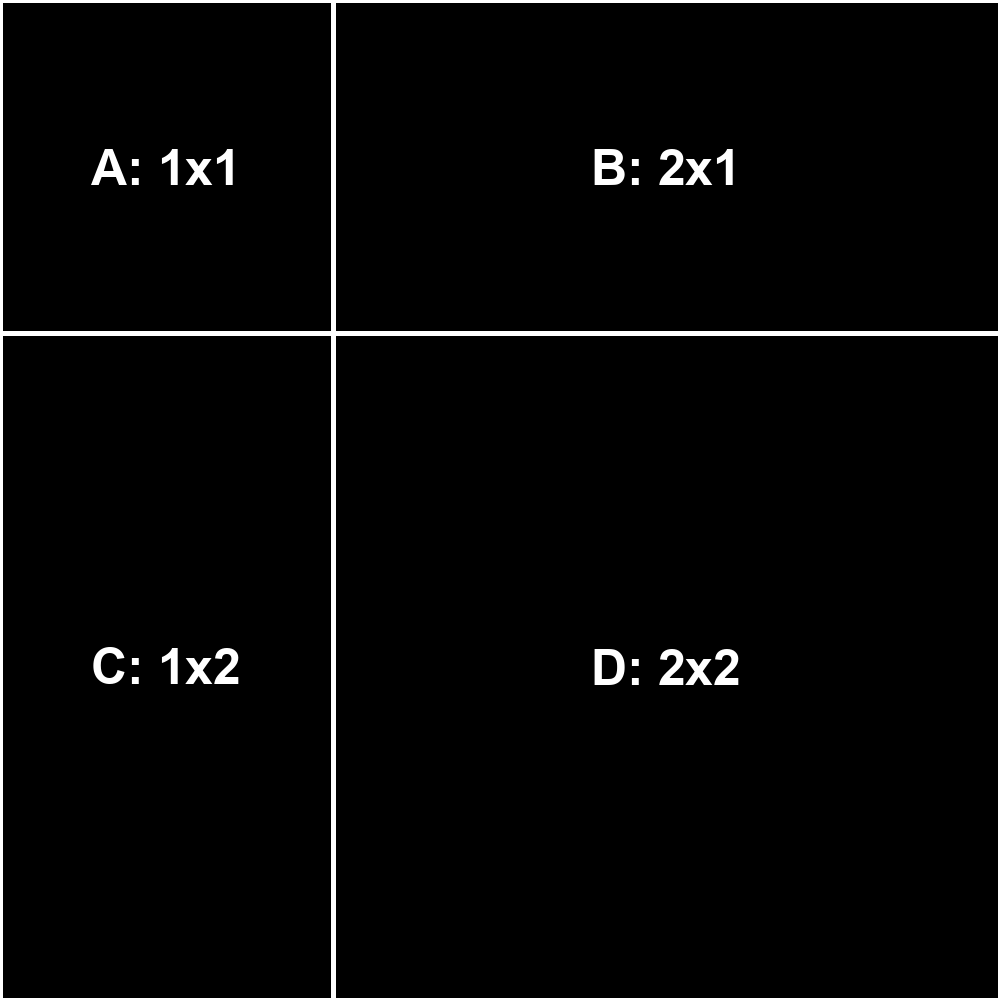
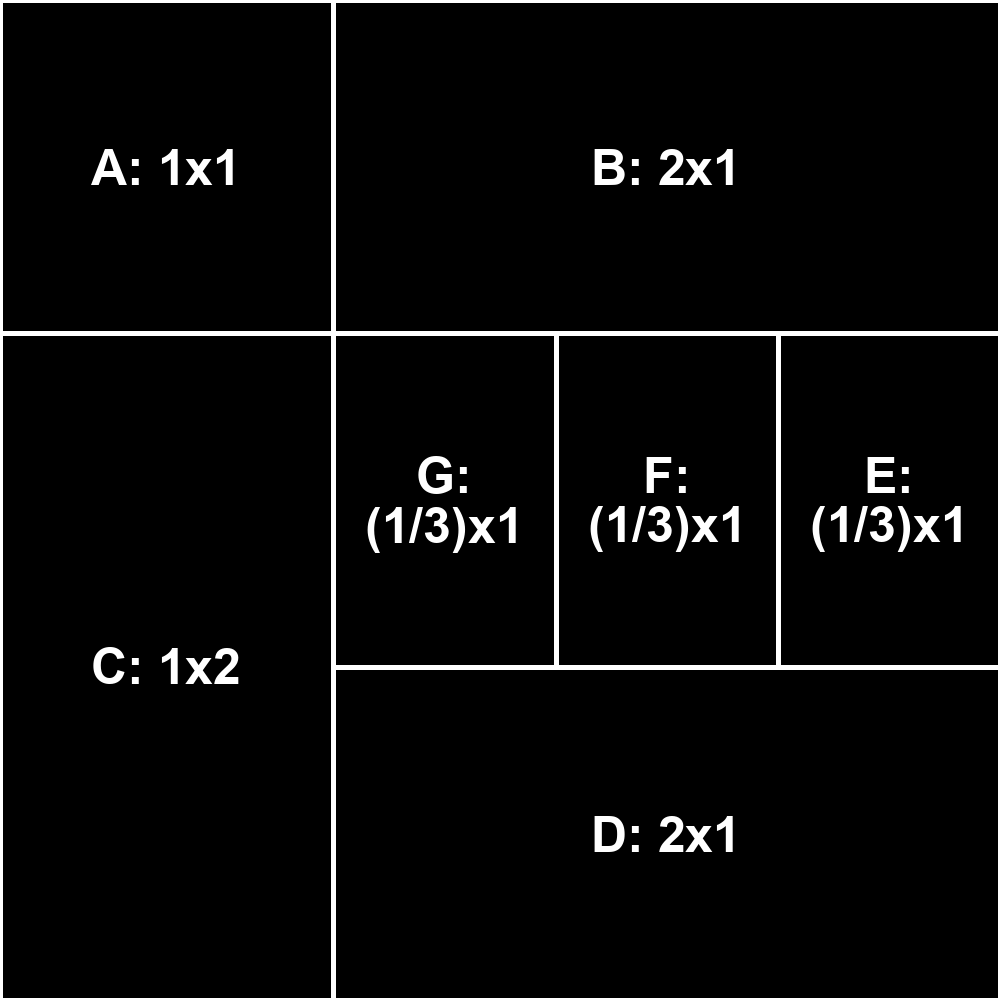
dude...

Changed region(s): [[0.341, 0.341, 1.0, 0.682], [0.589, 0.434, 0.744, 0.558], [0.589, 0.806, 0.744, 0.868]]

diff --git a/imagesmacker/fields.py b/imagesmacker/fields.py
@@ -1,71 +1,89 @@
+from collections import deque
+
 from imagesmacker.models.coordinates import XYXY, RectangleCoordinates
 from imagesmacker.models.fields import (
     FieldsCoords,
+    RelativeContainer,
     RelativeDataFieldFormat,
+    RelativeFieldCell,
+    cells_type,
 )
 
 
-def relative_field_formatting(
-    data_field_format: RelativeDataFieldFormat,
+def relative_field_formatting(  # noqa: C901
+    data_field_format: RelativeContainer | RelativeDataFieldFormat,
     dimensions: RectangleCoordinates,
 ) -> FieldsCoords:
     """
-    _summary_.
+    Non-recursive version of relative layout formatter using a manual stack.
 
     Args:
-        data_field_format (RelativeDataFieldFormat): _description_
-        dimensions (Coordinates): Coordinate mode agnostic dimensions.
+        data_field_format (RelativeDataFieldFormat): Layout tree.
+        dimensions (RectangleCoordinates): Bounding box to render in.
 
     Returns:
-        dict[str, tuple[float, float, float, float]]: _description_
+        FieldsCoords: Dict of field names to XYXY positions.
     """
+    output: FieldsCoords = {}
 
-    initial_field_x, field_y, field_width, field_height = dimensions.xywh()
+    x, y, w, h = dimensions.xywh()
 
-    total_field_fractional_height: float = 0
-    ls_cell_fractional_widths: list[float] = []
+    # Stack of layout jobs
+    # Each job is: (cells, x, y, w, h, direction)
+    stack: deque[
+        tuple[RelativeContainer | RelativeDataFieldFormat, float, float, float, float]
+    ] = deque()
+    stack.append((data_field_format, x, y, w, h))  # root layout
 
-    for row in data_field_format.rows:
-        total_row_fractional_width: float = 0
+    container: RelativeContainer | RelativeDataFieldFormat
+    cells: cells_type
 
-        row_fractional_height = row.fr
-        row_cells = row.cells
+    while stack:
+        container, cur_x, cur_y, cur_w, cur_h = stack.pop()
+        cells = container.cells
+        direction = container.direction
 
-        total_field_fractional_height += row_fractional_height
+        total_fr = sum(cell.fr for cell in cells)
+        horizontal = direction in ("lr", "rl")
+        reverse = direction in ("rl", "bt")
 
-        for cell in row_cells:
-            total_row_fractional_width += cell.fr
+        offset = cur_x if horizontal else cur_y
+        cells_iter = reversed(cells) if reverse else cells
 
-        ls_cell_fractional_widths.append(total_row_fractional_width)
+        for cell in cells_iter:
+            frac = cell.fr / total_fr
+            size = cur_w * frac if horizontal else cur_h * frac
 
-    output: dict[str, XYXY] = {}
+            if horizontal:
+                cell_x = offset
+                cell_y = cur_y
+                cell_w = size
+                cell_h = cur_h
+            else:
+                cell_x = cur_x
+                cell_y = offset
+                cell_w = cur_w
+                cell_h = size
 
-    for row, total_row_fractional_width in zip(
-        data_field_format.rows,
-        ls_cell_fractional_widths,
-        strict=True,
-    ):
-        row_fractional_height = row.fr
-        row_cells = row.cells
+            if isinstance(cell, RelativeFieldCell):
+                output[cell.name] = XYXY(
+                    round(cell_x),
+                    round(cell_y),
+                    round(cell_x + cell_w),
+                    round(cell_y + cell_h),
+                )
+            elif isinstance(cell, RelativeContainer):
+                # Push nested job onto stack
+                stack.append(
+                    (
+                        cell,
+                        cell_x,
+                        cell_y,
+                        cell_w,
+                        cell_h,
+                    ),
+                )
 
-        row_height = round(
-            field_height * (row_fractional_height / total_field_fractional_height),
-        )
-
-        field_x = initial_field_x
-
-        for cell in row_cells:
-            cell_fractional_width = cell.fr
-            cell_width = round(
-                field_width * (cell_fractional_width / total_row_fractional_width),
-            )
-            output[cell.name] = XYXY(
-                field_x,
-                field_y,
-                field_x + cell_width,
-                field_y + row_height,
-            )
-            field_x += cell_width
-        field_y += row_height
+            offset += size
 
     return output

diff --git a/examples/08_fields.py b/examples/08_fields.py
@@ -10,9 +10,9 @@ from imagesmacker.models.draw import TextConfig, TextStyle
 from imagesmacker.models.fields import (
     FieldsConfig,
     FieldsCoords,
+    RelativeContainer,
     RelativeDataFieldFormat,
     RelativeFieldCell,
-    RelativeRow,
     TextFieldAttributes,
 )
 
@@ -61,24 +61,50 @@ fields_text = {
     "A": "A: 1x1",
     "B": "B: 2x1",
     "C": "C: 1x2",
-    "D": "D: 2x2",
+    "D": "D: 2x1",
+    "E": "E: \n(1/3)x1",
+    "F": "F: \n(1/3)x1",
+    "G": "G: \n(1/3)x1",
 }
 
 data_field_fmt = RelativeDataFieldFormat(
-    rows=[
-        RelativeRow(
+    cells=[
+        RelativeContainer(
             fr=1,
             cells=[
                 RelativeFieldCell(fr=1, name="A"),
                 RelativeFieldCell(fr=2, name="B"),
             ],
+            direction="lr",
         ),
-        RelativeRow(
+        RelativeContainer(
             fr=2,
             cells=[
                 RelativeFieldCell(fr=1, name="C"),
-                RelativeFieldCell(fr=2, name="D"),
+                RelativeContainer(
+                    fr=2,
+                    cells=[
+                        RelativeFieldCell(fr=1, name="D"),
+                        RelativeContainer(
+                            fr=1,
+                            cells=[
+                                RelativeFieldCell(fr=1, name="E"),
+                                RelativeContainer(
+                                    fr=2,
+                                    cells=[
+                                        RelativeFieldCell(fr=1, name="F"),
+                                        RelativeFieldCell(fr=1, name="G"),
+                                    ],
+                                    direction="rl",
+                                ),
+                            ],
+                            direction="rl",
+                        ),
+                    ],
+                    direction="bt",
+                ),
             ],
+            direction="lr",
         ),
     ],
 )

diff --git a/imagesmacker/models/fields.py b/imagesmacker/models/fields.py
@@ -1,9 +1,13 @@
-from typing import TypeAlias
+from collections.abc import Sequence
+from typing import Literal, TypeAlias
 
 from pydantic import BaseModel, ConfigDict
 
 from imagesmacker.models.coordinates import XYXY
 from imagesmacker.models.draw import BarcodeConfig, TextConfig
+
+cells_type = Sequence["RelativeContainer" | "RelativeFieldCell"]
+directions_type = Literal["lr", "rl", "tb", "bt"]
 
 
 class RelativeFieldCell(BaseModel):
@@ -12,19 +16,21 @@ class RelativeFieldCell(BaseModel):
     name: str
 
 
-class RelativeRow(BaseModel):
+class RelativeContainer(BaseModel):
     model_config = ConfigDict(extra="forbid")
     fr: float
-    cells: list[RelativeFieldCell]
+    cells: cells_type
+    direction: str | directions_type = "tb"
 
 
 class RelativeDataFieldFormat(BaseModel):
     model_config = ConfigDict(extra="forbid")
-    rows: list[RelativeRow]
+    cells: cells_type
+    direction: str | directions_type = "tb"
 
 
 class FieldAttributes(BaseModel):
-    pass
+    model_config = ConfigDict(extra="forbid")
 
 
 class TextFieldAttributes(FieldAttributes):

diff --git a/test/text_anchors_multiline.py b/test/text_anchors_multiline.py
@@ -10,9 +10,9 @@ from imagesmacker.models.draw import TextConfig, TextStyle
 from imagesmacker.models.fields import (
     FieldsConfig,
     FieldsCoords,
+    RelativeContainer,
     RelativeDataFieldFormat,
     RelativeFieldCell,
-    RelativeRow,
     TextFieldAttributes,
 )
 
@@ -66,9 +66,9 @@ for y_anchor in vertical_anchors:
                 style=TextStyle(fill="#fff"),
             ),
         )
-    data_field_fmt_rows.append(RelativeRow(fr=1, cells=y_anchor_list))
+    data_field_fmt_rows.append(RelativeContainer(fr=1, cells=y_anchor_list))
 
-data_field_fmt = RelativeDataFieldFormat(rows=data_field_fmt_rows)
+data_field_fmt = RelativeDataFieldFormat(cells=data_field_fmt_rows)
 
 fields_coords = relative_field_formatting(
     data_field_fmt,
@@ -91,6 +91,7 @@ def draw_boxes() -> None:
 draw_boxes()
 image.save(
     os.path.join(
-        parent_dir_nth_times(__file__, 2), "docs/examples/text-anchors-multiline.png",
+        parent_dir_nth_times(__file__, 2),
+        "docs/examples/text-anchors-multiline.png",
     ),
 )

diff --git a/test/text_anchors_inverted_multiline.py b/test/text_anchors_inverted_multiline.py
@@ -10,9 +10,9 @@ from imagesmacker.models.draw import TextConfig, TextStyle
 from imagesmacker.models.fields import (
     FieldsConfig,
     FieldsCoords,
+    RelativeContainer,
     RelativeDataFieldFormat,
     RelativeFieldCell,
-    RelativeRow,
     TextFieldAttributes,
 )
 
@@ -68,9 +68,9 @@ for y_anchor in vertical_anchors:
                 style=TextStyle(fill="#fff"),
             ),
         )
-    data_field_fmt_rows.append(RelativeRow(fr=1, cells=y_anchor_list))
+    data_field_fmt_rows.append(RelativeContainer(fr=1, cells=y_anchor_list))
 
-data_field_fmt = RelativeDataFieldFormat(rows=data_field_fmt_rows)
+data_field_fmt = RelativeDataFieldFormat(cells=data_field_fmt_rows)
 
 fields_coords = relative_field_formatting(
     data_field_fmt,

diff --git a/test/text_anchors.py b/test/text_anchors.py
@@ -10,9 +10,9 @@ from imagesmacker.models.draw import TextConfig, TextStyle
 from imagesmacker.models.fields import (
     FieldsConfig,
     FieldsCoords,
+    RelativeContainer,
     RelativeDataFieldFormat,
     RelativeFieldCell,
-    RelativeRow,
     TextFieldAttributes,
 )
 
@@ -63,9 +63,9 @@ for y_anchor in vertical_anchors:
                 style=TextStyle(fill="#fff"),
             ),
         )
-    data_field_fmt_rows.append(RelativeRow(fr=1, cells=y_anchor_list))
+    data_field_fmt_rows.append(RelativeContainer(fr=1, cells=y_anchor_list))
 
-data_field_fmt = RelativeDataFieldFormat(rows=data_field_fmt_rows)
+data_field_fmt = RelativeDataFieldFormat(cells=data_field_fmt_rows)
 
 # pprint(data_field_fmt)
 # pprint(fields_text)

diff --git a/imagesmacker/draw.py b/imagesmacker/draw.py
@@ -120,7 +120,8 @@ class Draw:
         else:
             while True:
                 text_width, text_height = font_size_calculator.get_text_bbox(
-                    max_font_size, text,
+                    max_font_size,
+                    text,
                 )
 
                 if (text_width > field_width) or (text_height > field_height):
@@ -139,7 +140,8 @@ class Draw:
                     break
 
                 text_width, text_height = font_size_calculator.get_text_bbox(
-                    max_font_size, text,
+                    max_font_size,
+                    text,
                 )
 
         # If the text needs to be inverted (ie. turned upside down), then, it needs to

diff --git a/examples/02_text.py b/examples/02_text.py
@@ -28,7 +28,10 @@ margin_x2 = margin * 2
 draw.text(
     text=text,
     field_coords=XYWH(
-        margin, margin, image_width - margin_x2, image_height - margin_x2,
+        margin,
+        margin,
+        image_width - margin_x2,
+        image_height - margin_x2,
     ),
     field_attributes=field_attributes,
 )

diff --git a/examples/03_multiline_text.py b/examples/03_multiline_text.py
@@ -32,7 +32,10 @@ margin_x2 = margin * 2
 draw.text(
     text=text,
     field_coords=XYWH(
-        margin, margin, image_width - margin_x2, image_height - margin_x2,
+        margin,
+        margin,
+        image_width - margin_x2,
+        image_height - margin_x2,
     ),
     field_attributes=field_attributes,
 )

diff --git a/examples/04_inverted_text.py b/examples/04_inverted_text.py
@@ -32,7 +32,10 @@ margin_x2 = margin * 2
 draw.text(
     text=text,
     field_coords=XYWH(
-        margin, margin, image_width - margin_x2, image_height - margin_x2,
+        margin,
+        margin,
+        image_width - margin_x2,
+        image_height - margin_x2,
     ),
     field_attributes=field_attributes,
 )

diff --git a/examples/05_inverted_multiline_text.py b/examples/05_inverted_multiline_text.py
@@ -33,7 +33,10 @@ margin_x2 = margin * 2
 draw.text(
     text=text,
     field_coords=XYWH(
-        margin, margin, image_width - margin_x2, image_height - margin_x2,
+        margin,
+        margin,
+        image_width - margin_x2,
+        image_height - margin_x2,
     ),
     field_attributes=field_attributes,
 )

diff --git a/examples/07_Code128.py b/examples/07_Code128.py
@@ -26,7 +26,10 @@ draw.barcode(
     data=data,
     type="Code128",
     field_coords=XYWH(
-        margin, margin, image_width - margin_x2, image_height - margin_x2,
+        margin,
+        margin,
+        image_width - margin_x2,
+        image_height - margin_x2,
     ),
     field_attributes=field_attributes,
 )
